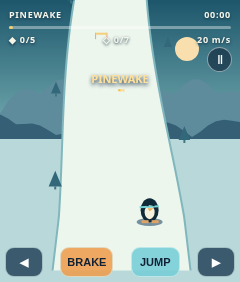
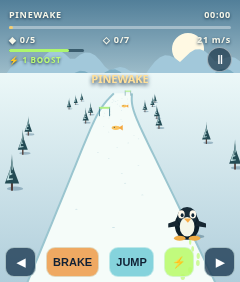
Upgrade Snowline Sprint alpine chase racing and boost

diff --git a/game.js b/game.js
@@ -1,6 +1,7 @@
+import {renderScene} from './renderer.js';
 import {COURSES,center,width,newRun,step,jump,grade,score,clamp} from './engine.js';
 const $=id=>document.getElementById(id),canvas=$('scene'),ctx=canvas.getContext('2d');
-let state='menu',selected=0,unlocked=0,run=null,last=0,tilt=0,tiltBase=null,tiltLive=false,tiltAt=0,noticeUntil=0,keys=new Set(),touch={left:false,right:false,brake:false},audio=null;
+let boostQueued=false;let state='menu',selected=0,unlocked=0,run=null,last=0,tilt=0,tiltBase=null,tiltLive=false,tiltAt=0,noticeUntil=0,keys=new Set(),touch={left:false,right:false,brake:false},audio=null;
 try{unlocked=clamp(Number(localStorage.getItem('snowline-unlocked'))||0,0,2)}catch{}
 function sound(type){try{audio ||= new (window.AudioContext||window.webkitAudioContext)();const o=audio.createOscillator(),g=audio.createGain(),t=audio.currentTime;o.type=type==='hit'?'sawtooth':'sine';o.frequency.setValueAtTime(type==='fish'?580:type==='hit'?130:380,t);o.frequency.exponentialRampToValueAtTime(type==='fish'?900:type==='hit'?75:510,t+.13);g.gain.setValueAtTime(.0001,t);g.gain.exponentialRampToValueAtTime(.085,t+.014);g.gain.exponentialRampToValueAtTime(.0001,t+.16);o.connect(g).connect(audio.destination);o.start(t);o.stop(t+.17)}catch{}}
 function announce(s){$('notice').textContent=s;noticeUntil=performance.now()+1100}
@@ -12,29 +13,15 @@ window.addEventListener('deviceorientation',e=>{if(typeof e.gamma!=='number')ret
 function finish(){state='results';$('hud').hidden=true;$('controls').hidden=true;$('pause').hidden=true;$('panel').hidden=false;const win=grade(run);if(win&&selected===unlocked&&unlocked<2){unlocked++;try{localStorage.setItem('snowline-unlocked',String(unlocked))}catch{}}picker();$('panel').querySelector('h1').innerHTML=win?'SUMMIT<br><em>CLEARED</em>':'RUN<br><em>COMPLETE</em>';$('description').textContent=`${COURSES[selected].name} · ${Math.ceil(run.elapsed)}s · ${run.fish} fish · ${run.gates}/${run.course.gateCount} gates · ${run.hits} hits. Score ${score(run)}. ${win?'Next course unlocked.':'Medal: collect target fish, clear 65% of gates, beat par, and take fewer than four hits.'}`;$('primary').innerHTML='RACE AGAIN <span>↗</span>';$('menuButton').hidden=false;sound(win?'fish':'hit')}
 $('menuButton').onclick=()=>menu();$('primary').onclick=()=>{if(state==='paused'){state='racing';$('panel').hidden=true;last=performance.now();return}start()};$('pause').onclick=()=>{if(state!=='racing')return;state='paused';$('panel').hidden=false;$('panel').querySelector('h1').innerHTML='TAKE A<br><em>BREATH</em>';$('description').textContent='The mountain waits. Tilt to steer, or use the arrows. Hold brake on tight turns.';$('primary').innerHTML='RESUME <span>↗</span>';$('menuButton').hidden=false};
 for(const id of ['left','right','brake']){const b=$(id);b.onpointerdown=e=>{e.preventDefault();b.setPointerCapture(e.pointerId);touch[id]=true};b.onpointerup=b.onpointercancel=()=>touch[id]=false}
+$('boost').onpointerdown=e=>{e.preventDefault();if(state==='racing')boostQueued=true};
 $('jump').onpointerdown=e=>{e.preventDefault();if(state==='racing')jump(run)};
-window.addEventListener('keydown',e=>{if(['ArrowLeft','ArrowRight','ArrowDown','Space'].includes(e.code))e.preventDefault();keys.add(e.code);if(e.code==='Space'&&state==='racing'&&!e.repeat)jump(run);if(e.code==='Escape'&&state==='racing')$('pause').click()});window.addEventListener('keyup',e=>keys.delete(e.code));
-function polygon(points,fill){ctx.fillStyle=fill;ctx.beginPath();ctx.moveTo(...points[0]);for(let i=1;i<points.length;i++)ctx.lineTo(...points[i]);ctx.closePath();ctx.fill()}
-function mountain(t,color,base,amp){ctx.fillStyle=color;ctx.beginPath();ctx.moveTo(0,140);for(let x=0;x<=240;x+=8)ctx.lineTo(x,base-Math.abs(Math.sin(x*.023+t))*amp-Math.abs(Math.sin(x*.071+t))*amp*.44);ctx.lineTo(240,140);ctx.fill()}
-function project(z,x){const d=z-(run?.z||0),y=193-d*1.55,scale=1+Math.max(0,d)*.005;return {x:120+(x-center(z,run?.course||COURSES[selected]))*104/scale,y,scale}}
-function drawFish(x,y,s){ctx.save();ctx.translate(x,y);ctx.scale(s,s);ctx.fillStyle='#ffd778';ctx.beginPath();ctx.ellipse(0,0,4,2.3,0,0,7);ctx.fill();polygon([[3,0],[7,-3],[7,3]],'#ffd778');ctx.fillStyle='#264156';ctx.fillRect(-2,-1,1,1);ctx.restore()}
-function drawPenguin(x,y,air=0){ctx.save();ctx.translate(x,y-air*7);ctx.fillStyle='#102a39';ctx.beginPath();ctx.ellipse(0,3,9,12,0,0,7);ctx.fill();ctx.fillStyle='#f5f1dd';ctx.beginPath();ctx.ellipse(0,5,5,7,0,0,7);ctx.fill();ctx.fillStyle='#e9ad57';polygon([[-2,1],[4,1],[0,4]],'#edac50');ctx.fillStyle='#77d4d6';polygon([[-10,-1],[9,-2],[9,0],[-10,1]],'#77d4d6');ctx.fillStyle='#112b36';ctx.fillRect(-3,-3,2,2);ctx.fillRect(3,-3,2,2);ctx.fillStyle='#dfa368';ctx.fillRect(-8,13,7,3);ctx.fillRect(2,13,7,3);ctx.restore()}
-function render(){const c=run?.course||COURSES[selected],z=run?.z||0;let sky=ctx.createLinearGradient(0,0,0,180);if(c.theme==='dusk'){sky.addColorStop(0,'#351e45');sky.addColorStop(1,'#d7816a')}else{sky.addColorStop(0,c.theme==='ice'?'#194463':'#1d566b');sky.addColorStop(1,'#91c9c8')}ctx.fillStyle=sky;ctx.fillRect(0,0,240,282);ctx.fillStyle='#f8dfad';ctx.beginPath();ctx.arc(187,49,12,0,7);ctx.fill();mountain(.2,'#5e8c9d',122,30);mountain(1.9,'#345f75',139,18);
- ctx.fillStyle=c.theme==='dusk'?'#d2aabd':'#b9d8d9';ctx.fillRect(0,139,240,143);
- // The visible road is a curved continuous strip in world space, with perspective widening near the rider.
- const left=[],right=[];for(let d=125;d>=-50;d-=5){const zz=Math.max(0,z+d),y=193-d*1.55,w=width(zz,c)*.5,shift=(center(zz,c)-center(z,c))*104;const perspective=80+Math.max(0,125-d)*.4;left.push([120+shift-w*perspective,y]);right.push([120+shift+w*perspective,y]);}
- polygon([...left,...right.reverse()],c.theme==='dusk'?'#f4e8e0':'#edf6ed');ctx.strokeStyle='#80b7bd';ctx.lineWidth=2;for(const side of [-1,1]){ctx.beginPath();for(let d=125;d>=-50;d-=5){const zz=Math.max(0,z+d),y=193-d*1.55,x=120+(center(zz,c)-center(z,c))*104+side*width(zz,c)*.5*(80+Math.max(0,125-d)*.4);if(d===125)ctx.moveTo(x,y);else ctx.lineTo(x,y)}ctx.stroke()}
- // Deterministic little pines and shadows, drawn procedurally.
- for(let i=0;i<28;i++){const zz=Math.floor(z/30)*30+i*30+20,d=zz-z;if(d<0||d>126)continue;const side=i%2?1:-1,p=project(zz,center(zz,c)+side*(width(zz,c)*.55+.13+(i*7%5)*.045)),h=clamp(16-d*.065,5,16);polygon([[p.x,p.y-h],[p.x-h*.42,p.y],[p.x+h*.42,p.y]],c.theme==='dusk'?'#40546a':'#326879');ctx.fillStyle='#407481';ctx.fillRect(p.x-1,p.y,2,3)}
- if(run){for(const o of run.objects){const d=o.z-z;if(d<0||d>115)continue;const p=project(o.z,o.x),s=clamp(1-d*.006,.35,1);if(o.type==='fish')drawFish(p.x,p.y-5*s,s);else if(o.type==='gate'){const w=14*s;ctx.strokeStyle='#e9925b';ctx.lineWidth=2*s;ctx.beginPath();ctx.moveTo(p.x-w,p.y);ctx.lineTo(p.x-w,p.y-16*s);ctx.moveTo(p.x+w,p.y);ctx.lineTo(p.x+w,p.y-16*s);ctx.stroke();polygon([[p.x-w,p.y-16*s],[p.x+w,p.y-16*s],[p.x+w,p.y-11*s],[p.x-w,p.y-11*s]],'#f5cf7c')}else if(o.type==='rock'){polygon([[p.x-7*s,p.y],[p.x-4*s,p.y-7*s],[p.x+3*s,p.y-9*s],[p.x+8*s,p.y]],'#677d8c')}else{polygon([[p.x-10*s,p.y],[p.x+9*s,p.y],[p.x+4*s,p.y-5*s],[p.x-6*s,p.y-5*s]],'#e8a362')}}
- const dx=(run.x-center(z,c))*95;ctx.fillStyle='#284d6899';ctx.beginPath();ctx.ellipse(120+dx,222,13,4,0,0,7);ctx.fill();drawPenguin(120+dx,208,run.air);$('timer').textContent=`${Math.floor(run.elapsed/60).toString().padStart(2,'0')}:${Math.floor(run.elapsed%60).toString().padStart(2,'0')}`;$('fishHud').textContent=`◆ ${run.fish}/${c.target}`;$('gateHud').textContent=`◇ ${run.gates}/${c.gateCount}`;$('speedHud').textContent=`${Math.round(run.speed)} m/s`;$('progress').style.width=`${run.z/c.length*100}%`; $('courseHud').textContent=c.name.toUpperCase()}
- else drawPenguin(120,205,0);
-}
+window.addEventListener('keydown',e=>{if(['ArrowLeft','ArrowRight','ArrowDown','Space'].includes(e.code))e.preventDefault();keys.add(e.code);if((e.code==='ArrowUp'||e.code==='KeyW')&&state==='racing'&&!e.repeat)boostQueued=true;if(e.code==='Space'&&state==='racing'&&!e.repeat)jump(run);if(e.code==='Escape'&&state==='racing')$('pause').click()});window.addEventListener('keyup',e=>keys.delete(e.code));
+function render(){const c=run?.course||COURSES[selected];renderScene(ctx,run,c,performance.now());if(run){$('timer').textContent=`${Math.floor(run.elapsed/60).toString().padStart(2,'0')}:${Math.floor(run.elapsed%60).toString().padStart(2,'0')}`;$('fishHud').textContent=`◆ ${run.fish}/${c.target}`;$('gateHud').textContent=`◇ ${run.gates}/${c.gateCount}`;$('speedHud').textContent=`${Math.round(run.speed)} m/s`;$('progress').style.width=`${run.z/c.length*100}%`;$('staminaFill').style.width=`${run.stamina}%`;$('boostHud').textContent=`⚡ ${run.boostCharges} BOOST${run.boostCharges===1?'':'S'}`;$('courseHud').textContent=c.name.toUpperCase()}}
 function frame(t){const dt=Math.min(.05,(t-last)/1000||0);last=t;if(state==='racing'){
  const steer=(touch.right||keys.has('ArrowRight')||keys.has('KeyD')?1:0)-(touch.left||keys.has('ArrowLeft')||keys.has('KeyA')?1:0);
  // Touch/keyboard takes priority while pressed; sensor tilt takes over otherwise.
- step(run,dt,{steer:steer||((tiltLive&&t-tiltAt<1000&&Math.abs(tilt)>.08)?tilt:0),brake:touch.brake||keys.has('ArrowDown')||keys.has('KeyS')});
- for(const e of run.events){if(e==='fish'||e==='gate'||e==='hit'||e==='ramp'){announce({fish:'FISH +85',gate:'CLEAN GATE +160',hit:'ROCK! SLOW DOWN',ramp:'AIRBORNE'}[e]);sound(e)}}if(run.finished)finish();}
+ step(run,dt,{steer:steer||((tiltLive&&t-tiltAt<1000&&Math.abs(tilt)>.08)?tilt:0),brake:touch.brake||keys.has('ArrowDown')||keys.has('KeyS'),boost:boostQueued});boostQueued=false;
+ for(const e of run.events){if(e==='fish'||e==='gate'||e==='hit'||e==='ramp'){announce({fish:'FISH +85',gate:'CLEAN GATE +160',hit:'ROCK! SLOW DOWN',ramp:'AIRBORNE',boost:'BOOST!',charge:'BOOST +1'}[e]);sound(e)}}if(run.finished)finish();}
  if(t>noticeUntil)$('notice').textContent='';render();requestAnimationFrame(frame)}
 picker();requestAnimationFrame(frame);
 window.__snowline={get state(){return state},get run(){return run},get unlocked(){return unlocked},start,step:(dt,input)=>{if(state==='racing'){step(run,dt,input);if(run.finished)finish()}},jump:()=>jump(run)};

diff --git a/renderer.js b/renderer.js
@@ -1,0 +1,20 @@
+import {center,width,clamp} from './engine.js';
+const poly=(g,points,fill)=>{g.fillStyle=fill;g.beginPath();g.moveTo(...points[0]);for(let i=1;i<points.length;i++)g.lineTo(...points[i]);g.closePath();g.fill()};
+const ellipse=(g,x,y,rx,ry,color)=>{g.fillStyle=color;g.beginPath();g.ellipse(x,y,Math.max(.2,rx),Math.max(.2,ry),0,0,7);g.fill()};
+const rng=n=>{let v=Math.sin(n*127.1+45.6)*43758.5453;return v-Math.floor(v)};
+function pine(g,x,y,s,night){if(s<.25)return;g.save();g.translate(x,y);g.scale(s,s);ellipse(g,3,1,8,2,'#426b8766');g.fillStyle='#513f3b';g.fillRect(-1,-12,2,15);for(let i=0;i<3;i++){let a=7-i*4;poly(g,[[-a,-4-i*5],[0,-23-i*5],[a,-4-i*5]],night?'#173449':'#244c55');poly(g,[[-a*.76,-7-i*5],[0,-23-i*5],[a*.15,-8-i*5]],night?'#66818b':'#c1e1e3')}g.restore()}
+function penguin(g,x,y,air,lean,scale=1){g.save();g.translate(x,y-air*7);g.rotate(lean*.16);g.scale(scale,scale);ellipse(g,4,18+air*7,17,3,'#19435855');ellipse(g,0,6,15,18,'#0b1e29');ellipse(g,0,-4,12,12,'#182c38');poly(g,[[-12,0],[-23,4],[-23,9],[-10,7]],'#152631');poly(g,[[12,0],[23,4],[23,9],[10,7]],'#152631');ellipse(g,0,8,9,12,'#f5f7e9');ellipse(g,-7,-7,4,5,'#fff9eb');ellipse(g,7,-7,4,5,'#fff9eb');ellipse(g,-6,-6,1.8,2.5,'#112838');ellipse(g,7,-6,1.8,2.5,'#112838');poly(g,[[-4,-2],[5,-2],[1,3]],'#f7ac48');ellipse(g,-9,22,7,3,'#f0ad46');ellipse(g,9,22,7,3,'#f0ad46');g.restore()}
+function drawObject(g,o,x,y,s,night){g.save();g.translate(x,y);g.scale(s,s);if(o.type==='fish'){ellipse(g,0,-8,8,4,'#fbc35f');poly(g,[[5,-8],[13,-13],[13,-3]],'#f5a942');ellipse(g,-3,-9,1,1,'#173d44')}else if(o.type==='boost'){ellipse(g,0,-9,11,11,'#b5f65666');ellipse(g,0,-9,8,8,'#adf768');poly(g,[[2,-16],[-4,-8],[0,-8],[-3,-1],[6,-11],[1,-11]],'#1c4450')}else if(o.type==='gate'){g.strokeStyle=night?'#a7f2dc':'#2c6e81';g.lineWidth=2;for(const a of [-13,13]){g.beginPath();g.moveTo(a,0);g.lineTo(a,-25);g.stroke();ellipse(g,a,-25,2,2,'#d8fff6')}poly(g,[[-13,-24],[13,-24],[13,-19],[-13,-19]],'#b0ef81')}else if(o.type==='rock'){poly(g,[[-10,0],[-6,-9],[1,-14],[7,-10],[12,0]],'#547187');poly(g,[[-6,-9],[1,-14],[4,-10],[-2,-7]],'#effaff')}else{poly(g,[[-13,0],[13,0],[8,-5],[-9,-5]],'#d98c5f');g.fillStyle='#ffe9d2';g.fillRect(-8,-5,15,1)}g.restore()}
+export function renderScene(g,run,course,t){const c=course,z=run?.z||0,night=c.theme==='dusk',ice=c.theme==='ice',sky=g.createLinearGradient(0,0,0,240);sky.addColorStop(0,night?'#13233e':ice?'#467d9d':'#527f99');sky.addColorStop(.55,night?'#d47b7f':'#d8edf0');sky.addColorStop(1,'#d5e5ed');g.fillStyle=sky;g.fillRect(0,0,240,282);
+ ellipse(g,188,49,night?12:16,night?12:16,night?'#fff3d5':'#fff9e3');
+ for(let layer=0;layer<3;layer++){let pts=[[0,145]];for(let x=0;x<=250;x+=5){let crest=(layer===0?83:layer===1?102:123)-Math.abs(Math.sin(x*.024+layer*2.3))*22-Math.abs(Math.sin(x*.087+layer))*12;pts.push([x,crest])}pts.push([240,145]);poly(g,pts,night?['#62637e','#555d79','#6b7185'][layer]:['#a2c8da','#7eafc4','#6d9aad'][layer])}
+ const h=73,ground=g.createLinearGradient(0,h,0,282);ground.addColorStop(0,night?'#ddc5d5':'#ecf8f8');ground.addColorStop(1,night?'#c4b6c8':'#b0cedb');g.fillStyle=ground;g.fillRect(0,h,240,282-h);
+ // Chase camera tracks the winding centerline; a sampled width and vanishing point convey slope depth.
+ const point=(d,x)=>{let zz=Math.max(0,z+d),q=1/(1+d*.029),bend=(center(zz,c)-center(z,c))*155*q;return {x:120+bend+(x-center(zz,c))*165*q,y:72+170*q,q}};
+ const l=[],r=[];for(let d=240;d>=-12;d-=4){let zz=Math.max(0,z+d),w=width(zz,c)*.5,p=point(d,center(zz,c)-w);l.push([p.x,p.y]);p=point(d,center(zz,c)+w);r.push([p.x,p.y])}poly(g,[...l,...r.reverse()],night?'#e9dce2':'#f5fcf9');
+ for(let side of [-1,1]){g.beginPath();for(let d=240;d>=-12;d-=4){let zz=Math.max(0,z+d),p=point(d,center(zz,c)+side*width(zz,c)*.5);if(d===240)g.moveTo(p.x,p.y);else g.lineTo(p.x,p.y)}g.strokeStyle=night?'#a989a5':'#9ac5cf';g.lineWidth=2;g.stroke()}
+ // Terrain ribbon texture and offset groves preserve depth without WebGL or downloaded assets.
+ for(let n=0;n<50;n++){let zz=Math.floor(z/11)*11+n*11,d=zz-z;if(d<0||d>245)continue;let q=1/(1+d*.029),side=n%2?1:-1,xx=center(zz,c)+side*(width(zz,c)*.5+.11+rng(n*3+c.seed)*.9),p=point(d,xx);pine(g,p.x,p.y,clamp(1.5*q,.16,1.2),night)}
+ for(let n=0;n<75;n++){let zz=Math.floor(z/5)*5+n*5,d=zz-z;if(d<0||d>190)continue;let p=point(d,center(zz,c)+(rng(n*17+c.seed)-.5)*width(zz,c)*.8);ellipse(g,p.x,p.y,Math.max(.5,p.q*1.7),Math.max(.3,p.q*.6),night?'#b8b6ce77':'#a2c7d376')}
+ if(run){for(const o of run.objects){let d=o.z-z;if(d<0||d>235)continue;let p=point(d,o.x);drawObject(g,o,p.x,p.y,clamp(p.q*1.5,.2,1.4),night)}let rider=point(-8,run.x);if(run.boost>0){for(let i=0;i<7;i++){let x=rider.x+(rng(i*13+t*.002)-.5)*32,y=235+i*7;ellipse(g,x,y,1+i*.2,3,'#b8f86baa')}}penguin(g,rider.x,222,run.air,run.steer,.82)}else penguin(g,120,217,0,0,.85);
+}

diff --git a/engine.js b/engine.js
@@ -11,6 +11,7 @@ export function makeObjects(c){
   for(let i=0;i<c.gateCount;i++){
     const z=115+i*(c.length-210)/(c.gateCount-1), x=center(z,c)+(i%2 ? .27 : -.27);
     objects.push({type:'gate',z,x,id:`g${i}`});
+    if(i===2||i===c.gateCount-3)objects.push({type:'boost',z:z+12,x:center(z+12,c),id:`boost${i}`});
     objects.push({type:'fish',z:z+27,x:center(z+27,c)+(i%2 ? -.20:.20),id:`f${i}`});
     if(i>0)objects.push({type:i%3===0?'ramp':'rock',z:z+53,x:center(z+53,c)+(i%2 ? -.16:.16),id:`h${i}`});
   }
@@ -19,7 +20,7 @@ export function makeObjects(c){
 }
 export function newRun(courseIndex=0){
   const c=COURSES[courseIndex];if(!c)throw Error('Unknown course');
-  return {courseIndex,course:c,objects:makeObjects(c),seen:new Set(),x:center(0,c),z:0,speed:14,elapsed:0,fish:0,gates:0,missed:0,hits:0,jumps:0,air:0,vy:0,stun:0,invuln:0,brake:false,steer:0,finished:false,events:[]};
+  return {courseIndex,course:c,objects:makeObjects(c),seen:new Set(),x:center(0,c),z:0,speed:14,elapsed:0,fish:0,gates:0,missed:0,hits:0,jumps:0,air:0,vy:0,stun:0,invuln:0,stamina:100,boost:0,boostCharges:2,boostCooldown:0,brake:false,steer:0,finished:false,events:[]};
 }
 export function jump(s){if(s.finished||s.air>0||s.stun>0)return false;s.vy=3.5;s.air=.01;s.jumps++;s.events.push('jump');return true;}
 export function grade(s){return s.fish>=s.course.target && s.gates>=Math.ceil(s.course.gateCount*.65) && s.elapsed<=s.course.time && s.hits<4;}
@@ -27,8 +28,8 @@ export function score(s){return Math.max(0,Math.round(s.gates*160+s.fish*85+Math
 export function step(s,dt,input={}){
   if(s.finished)return s;
   dt=clamp(dt,0,.05);s.events=[];s.elapsed+=dt;s.steer=clamp(input.steer||0,-1,1);s.brake=!!input.brake;
-  s.stun=Math.max(0,s.stun-dt);s.invuln=Math.max(0,s.invuln-dt);
-  const target=s.brake?9:27+Math.min(5,s.z/300);s.speed+=(target-s.speed)*Math.min(1,dt*(s.stun?1.5:.65));
+  s.boostCooldown=Math.max(0,s.boostCooldown-dt);if(input.boost&&s.boostCharges>0&&s.boostCooldown===0&&s.stamina>=20){s.boostCharges--;s.stamina-=20;s.boost=.9;s.boostCooldown=2.5;s.events.push('boost');}s.boost=Math.max(0,s.boost-dt);s.stamina=clamp(s.stamina+(s.brake?4:1.5)*dt,0,100);s.stun=Math.max(0,s.stun-dt);s.invuln=Math.max(0,s.invuln-dt);
+  const target=s.brake?9:s.boost>0?44:27+Math.min(5,s.z/300);s.speed+=(target-s.speed)*Math.min(1,dt*(s.stun?1.5:.65));
   const old=s.z;s.z=Math.min(s.course.length,s.z+s.speed*dt);
   s.x+=s.steer*(s.stun?.12:.66)*dt;const edge=width(s.z,s.course)*.5;
   if(Math.abs(s.x-center(s.z,s.course))>edge){s.speed=Math.min(s.speed,15);s.x=clamp(s.x,center(s.z,s.course)-edge-.1,center(s.z,s.course)+edge+.1);}
@@ -36,9 +37,10 @@ export function step(s,dt,input={}){
   for(const o of s.objects){if(o.z<=old||o.z>s.z||s.seen.has(o.id))continue;s.seen.add(o.id);
     const dx=Math.abs(s.x-o.x);
     if(o.type==='gate'){if(dx<.19){s.gates++;s.events.push('gate');}else{s.missed++;s.events.push('miss');}}
-    if(o.type==='fish'&&dx<.16){s.fish++;s.events.push('fish');}
+    if(o.type==='fish'&&dx<.16){s.fish++;s.stamina=clamp(s.stamina+12,0,100);s.events.push('fish');}
+    if(o.type==='boost'&&dx<.16){s.boostCharges=Math.min(3,s.boostCharges+1);s.events.push('charge');}
     if(o.type==='ramp'&&dx<.16&&s.air===0){s.vy=4.5;s.air=.01;s.jumps++;s.events.push('ramp');}
-    if(o.type==='rock'&&dx<.16&&s.air<.13&&s.invuln<=0){s.hits++;s.stun=.8;s.invuln=1.3;s.speed*=.46;s.events.push('hit');}
+    if(o.type==='rock'&&dx<.16&&s.air<.13&&s.invuln<=0){s.hits++;s.stamina=Math.max(0,s.stamina-18);s.stun=.8;s.invuln=1.3;s.speed*=.46;s.events.push('hit');}
   }
   if(s.z>=s.course.length){s.finished=true;s.events.push('finish');}
   return s;

diff --git a/index.html b/index.html
@@ -1,1 +1,1 @@
-<!doctype html><html lang="en"><head><meta charset="utf-8"><meta name="viewport" content="width=device-width,initial-scale=1,maximum-scale=1,user-scalable=no,viewport-fit=cover"><meta name="theme-color" content="#101e34"><title>Snowline Sprint</title><link rel="stylesheet" href="style.css"></head><body><main id="shell" aria-label="Snowline Sprint game"><canvas id="scene" width="240" height="282" aria-label="Downhill game course"></canvas><div class="hud" id="hud" hidden><div class="hud-top"><span id="courseHud">PINEWAKE</span><span id="timer">00:00</span></div><div class="meter"><div id="progress"></div></div><div class="hud-bottom"><span id="fishHud">◆ 0/5</span><span id="gateHud">◇ 0/7</span><span id="speedHud">14 m/s</span></div></div><div id="notice" aria-live="polite"></div><div class="controls" id="controls" hidden><button id="left" aria-label="Steer left">◀</button><button id="brake" aria-label="Hold to brake">BRAKE</button><button id="jump" aria-label="Jump">JUMP</button><button id="right" aria-label="Steer right">▶</button></div><button id="pause" class="pause" aria-label="Pause race" hidden>Ⅱ</button><section class="panel" id="panel"><div class="eyebrow">AN ORIGINAL MOUNTAIN ARCADE</div><h1>SNOWLINE<br><em>SPRINT</em></h1><p id="description">Three alpine descents. Thread the gates, gather fish, and outrun the clock.</p><div class="course-picker" id="picker"></div><button class="primary" id="primary">START DESCENT <span>↗</span></button><button class="secondary" id="menuButton" hidden>COURSE MENU</button><p class="tip" id="tip">Tilt to steer · touch arrows if tilt is unavailable<br>Brake to carve · tap JUMP over rocks</p></section></main><script type="module" src="game.js"></script></body></html>
+<!doctype html><html lang="en"><head><meta charset="utf-8"><meta name="viewport" content="width=device-width,initial-scale=1,maximum-scale=1,user-scalable=no,viewport-fit=cover"><meta name="theme-color" content="#101e34"><title>Snowline Sprint</title><link rel="stylesheet" href="style.css"></head><body><main id="shell" aria-label="Snowline Sprint game"><canvas id="scene" width="240" height="282" aria-label="Downhill game course"></canvas><div class="hud" id="hud" hidden><div class="hud-top"><span id="courseHud">PINEWAKE</span><span id="timer">00:00</span></div><div class="meter"><div id="progress"></div></div><div class="hud-bottom"><span id="fishHud">◆ 0/5</span><span id="gateHud">◇ 0/7</span><span id="speedHud">14 m/s</span></div><div class="stamina"><div id="staminaFill"></div></div><div id="boostHud">⚡ 2 BOOSTS</div></div><div id="notice" aria-live="polite"></div><div class="controls" id="controls" hidden><button id="left" aria-label="Steer left">◀</button><button id="brake" aria-label="Hold to brake">BRAKE</button><button id="jump" aria-label="Jump">JUMP</button><button id="boost" aria-label="Boost">⚡</button><button id="right" aria-label="Steer right">▶</button></div><button id="pause" class="pause" aria-label="Pause race" hidden>Ⅱ</button><section class="panel" id="panel"><div class="eyebrow">AN ORIGINAL MOUNTAIN ARCADE</div><h1>SNOWLINE<br><em>SPRINT</em></h1><p id="description">Three alpine descents. Thread the gates, gather fish, and outrun the clock.</p><div class="course-picker" id="picker"></div><button class="primary" id="primary">START DESCENT <span>↗</span></button><button class="secondary" id="menuButton" hidden>COURSE MENU</button><p class="tip" id="tip">Tilt to steer · touch arrows if tilt is unavailable<br>Brake to carve · jump rocks · boost on straights</p></section></main><script type="module" src="game.js"></script></body></html>

diff --git a/style.css b/style.css
@@ -1,2 +1,4 @@
 *{box-sizing:border-box}html,body{margin:0;width:100%;height:100%;overflow:hidden;background:#081523;color:#f5f6e9;font-family:system-ui,-apple-system,sans-serif;touch-action:none}#shell{position:absolute;width:240px;height:282px;left:50%;top:50%;transform:translate(-50%,-50%);overflow:hidden;background:#173c53}canvas{display:block;width:240px;height:282px}.hud{position:absolute;inset:0 0 auto;pointer-events:none;padding:8px 9px 0;text-shadow:0 1px 3px #143047;font-size:9px;font-weight:800;letter-spacing:.08em}.hud-top,.hud-bottom{display:flex;justify-content:space-between;align-items:center}.hud-bottom{margin-top:4px}.meter{height:3px;background:#ffffff60;border-radius:8px;margin-top:5px}.meter>div{height:100%;width:0;background:#f3ce70;border-radius:8px}.pause{position:absolute;right:8px;top:47px;background:#132d41ad;color:white;border:1px solid #ffffff80;border-radius:50%;width:25px;height:25px;font-size:13px}.controls{position:absolute;bottom:5px;left:5px;right:5px;display:flex;gap:4px;justify-content:space-between;align-items:end}.controls button{height:30px;min-width:38px;border:1px solid #d9f3f0a8;border-radius:9px;background:#102e48bd;color:white;font-size:11px;font-weight:900;touch-action:none}.controls #brake{background:#ed9b49db;color:#102134;min-width:53px}.controls #jump{background:#73ccd6dc;color:#102134;min-width:49px}#notice{position:absolute;top:71px;left:10px;right:10px;text-align:center;font-size:11px;font-weight:900;color:#ffe09a;text-shadow:0 2px 4px #142d42;pointer-events:none}.panel{position:absolute;inset:0;background:linear-gradient(180deg,#112d43d6,#0b2435f2 57%,#08192af8);padding:21px 16px 13px;display:flex;flex-direction:column;align-items:stretch}.eyebrow{font-size:8px;color:#eecb79;font-weight:900;letter-spacing:.17em}.panel h1{font-size:29px;line-height:.93;letter-spacing:-.055em;margin:10px 0 8px;font-weight:950}.panel h1 em{font-style:normal;color:#89d7db}.panel p{font-size:10px;line-height:1.42;color:#c9d9db;margin:0 0 8px}.course-picker{display:flex;gap:4px;margin:1px 0 8px}.course-picker button{flex:1;min-width:0;border:1px solid #6596a4;background:#153950;color:#e9f3ee;border-radius:6px;padding:5px 1px;font-size:8px;font-weight:800}.course-picker button.active{background:#eecb79;color:#152b37;border-color:#eecb79}.course-picker button:disabled{opacity:.37}.primary{width:100%;padding:8px 9px;background:#f2ce7e;color:#132939;border:0;border-radius:7px;font-size:11px;font-weight:950;letter-spacing:.07em;text-align:left;display:flex;justify-content:space-between}.panel .tip{font-size:8px;color:#a8c4ca;margin:7px 0 0}button:focus-visible{outline:2px solid white} [hidden]{display:none!important}
 .secondary{margin-top:5px;padding:6px;color:#cce6e4;border:1px solid #83b2b9;border-radius:6px;background:#15354a;font-size:9px;font-weight:850}
+
+.stamina{height:3px;background:#17394aaf;border-radius:4px;margin-top:3px;width:75px}.stamina div{height:100%;background:#adf66e;border-radius:4px;width:100%}#boostHud{font-size:8px;color:#bdfc76;margin-top:2px}.controls #boost{background:#b9fb6be0;color:#102b35;min-width:30px}.controls #left,.controls #right{min-width:31px}.controls #brake{min-width:47px}.controls #jump{min-width:41px}.panel{background:linear-gradient(180deg,#0a2032b0,#092338eb 54%,#081a2af8)}

diff --git a/tests/engine.test.js b/tests/engine.test.js
@@ -4,3 +4,5 @@ test('braking slows and steering displaces',()=>{const a=newRun(),b=newRun();for
 test('jump blocks repeat airborne and lands',()=>{const s=newRun();assert.equal(jump(s),true);assert.equal(jump(s),false);for(let i=0;i<45;i++)step(s,.05,{});assert.equal(s.air,0);assert.equal(jump(s),true)});
 test('fish gate collision and rock penalties register once',()=>{const s=newRun();for(const type of ['gate','fish','rock']){const o=s.objects.find(x=>x.type===type);s.z=o.z-.1;s.x=o.x;s.speed=20;step(s,.05,{});const before=[s.fish,s.gates,s.hits];step(s,.05,{});assert.deepEqual([s.fish,s.gates,s.hits],before)}assert.equal(s.fish,1);assert.equal(s.gates,1);assert.equal(s.hits,1)});
 test('campaign completion and score requirements',()=>{const s=newRun();s.z=s.course.length-.2;s.gates=5;s.fish=5;s.elapsed=40;step(s,.05,{});assert.equal(s.finished,true);assert.equal(grade(s),true);assert.ok(score(s)>0);s.hits=4;assert.equal(grade(s),false)});
+test('boost consumes charge and stamina, increases speed, and respects cooldown',()=>{const s=newRun();step(s,.05,{boost:true});assert.equal(s.boostCharges,1);assert.ok(s.stamina<100);const charge=s.boostCharges;step(s,.05,{boost:true});assert.equal(s.boostCharges,charge);const baseline=newRun();for(let i=0;i<10;i++){step(s,.05,{});step(baseline,.05,{})}assert.ok(s.speed>baseline.speed);});
+test('boost pickup restores a charge, fish replenishes stamina',()=>{const s=newRun();s.boostCharges=0;s.stamina=40;for(const type of ['boost','fish']){const o=s.objects.find(x=>x.type===type);s.z=o.z-.1;s.x=o.x;s.speed=20;step(s,.05,{})}assert.equal(s.boostCharges,1);assert.ok(s.stamina>40)});

diff --git a/README.md b/README.md
@@ -1,6 +1,6 @@
 # Snowline Sprint
 
-An original, self-contained, portrait-first downhill arcade game designed for a 240 × 282 Rabbit R1 browser viewport. No build or network dependency. Run `python3 -m http.server 8000` in this directory and open `http://localhost:8000/`. The public release and installation QR are linked below.
+An original, self-contained, portrait-first downhill arcade game inspired by the visual character and mechanics of [Tux Racer · Alpine](https://tux-racer-alpine-reborn.geekthegreybeard.chatgpt.site/) designed for a 240 × 282 Rabbit R1 browser viewport. No build or network dependency. Run `python3 -m http.server 8000` in this directory and open `http://localhost:8000/`. The public release and installation QR are linked below.
 
 ## Actual 240 × 282 browser screenshots
 
@@ -18,20 +18,24 @@ Captured from the running game in headless Chromium, not concept art. The result
 
 ## Mechanics and campaign
 
-Three sequentially unlocked courses—Pinewake, Glasswind, Emberfall—have progressively longer, more winding slopes and more gates. Follow the curved snow track; pass through offset slalom gates, pick up fish, jump or dodge rocks, and ride short ramps. The edge slows the penguin. A medal and next-course unlock require target fish, at least 65% of gates, a finish under par, and fewer than four hits. All finishes show fish, gates, hits, time, score and medal state. Score = 160 per gate + 85 per fish + 12 per second under par − 100 per hit − 45 per missed gate. Replay via Race Again; use Course Menu from pause/results to select an unlocked course. Pause/resume in a run. Unlocks persist locally if browser storage permits.
+Three sequentially unlocked courses—Pinewake, Glasswind, Emberfall—have progressively longer, more winding slopes and more gates. Follow the curved snow track; pass through offset slalom gates, pick up fish, jump or dodge rocks, and ride short ramps. The edge slows the penguin. A sampled chase-camera snow ribbon, layered mountain walls, offset pine groves, depth-scaled pickups, and a round flippered penguin bring the reference’s alpine valley and rider silhouette into the small display. Two starting boost charges can be spent on straights; green lightning pickups replenish up to three charges. Boost costs 20 stamina, lasts 0.9 seconds and has a 2.5-second cooldown. Fish restore 12 stamina, rocks cost 18, and stamina slowly recovers. A medal and next-course unlock require target fish, at least 65% of gates, a finish under par, and fewer than four hits. All finishes show fish, gates, hits, time, score and medal state. Score = 160 per gate + 85 per fish + 12 per second under par − 100 per hit − 45 per missed gate. Replay via Race Again; use Course Menu from pause/results to select an unlocked course. Pause/resume in a run. Unlocks persist locally if browser storage permits.
 
 ## Controls
 
-Tilt left/right to steer. Tilt zero is calibrated to the first sensor reading after starting a race; start another run to recalibrate. Stale motion readings expire after one second. The large left/right touch buttons always work and override tilt while held, including on devices without sensors. Hold BRAKE to slow to 9 m/s; tap JUMP to clear rocks. Keyboard: left/right or A/D, down or S to brake, Space to jump, Escape to pause. Audio consists of short synthesized cues and starts only after user interaction.
+Tilt left/right to steer. Tilt zero is calibrated to the first sensor reading after starting a race; start another run to recalibrate. Stale motion readings expire after one second. The large left/right touch buttons always work and override tilt while held, including on devices without sensors. Hold BRAKE to slow to 9 m/s; tap JUMP to clear rocks; tap ⚡ to boost. Keyboard: left/right or A/D, down or S to brake, Space to jump, Up or W to boost, Escape to pause. Audio consists of short synthesized cues and starts only after user interaction.
+
+## Reference comparison and remaining compromises
+
+The supplied live PC reference was inspected in menu and race views, and its local project examined. Its broad open downhill valley, modeled flippered penguin, pine-lined mountains, fish, obstacles, ramps, stamina and boost charge are now recognizable here through original procedural 2D drawing and compact mechanics. Unlike the first R1 release’s flat vertical strip and tiny penguin, the updated screenshot shows a receding chase-camera course and a larger rider. The PC version additionally has six expansive 3D mountains, day/night selection, caves and underwater forks, bobsled routes, shields, health, difficulty settings, CPU/split/online opponents, leaderboard, and a richer audio/lighting system. Those are **not** claimed here: this version has three fixed compact courses, dusk on the final course, solo local progression, small synthesized cues and no borrowed PC assets. On-device R1 sensor mapping, audio and sustained frame rate remain untested.
 
 ## Limits
 
-At 240 × 282, the touch controls overlay the bottom of the course; this is an arcade perspective rather than physically simulated 3D terrain. Orientation permission depends on browser policy; touch remains available. Browser localStorage can be disabled, in which case course unlocks last only for the session. Actual R1 sensor orientation, touch ergonomics and frame rate require on-device acceptance testing. This is a single-player offline game, not network racing.
+At 240 × 282, the touch controls overlay the bottom of the course; this is a CPU-friendly 2D canvas chase projection, not the reference’s WebGL 3D terrain. Orientation permission depends on browser policy; touch remains available. Browser localStorage can be disabled, in which case course unlocks last only for the session. Actual R1 sensor orientation, touch ergonomics and frame rate require on-device acceptance testing. This is a single-player offline game, not network racing.
 
 ## Tests
 
-Run `npm test` (Node 18+). Tests cover procedural layouts, steering/braking, jump cooldown, collision single-counting, finish and medal logic. Run `npm run test:browser` after `npm install` and `npx playwright install chromium`. Headless Chromium was tested at exactly 240 × 282: menu, start, touch steering, jump, pause/resume, finish/results, and zero page errors. The test writes `screenshot-menu.png`, `screenshot-gameplay.png`, and `screenshot-results.png` in this directory. The result finish is fast-forwarded to exercise the screen; this does not establish human-play balance or R1 hardware compatibility.
+Run `npm test` (Node 18+). Tests cover procedural layouts, steering/braking, jump cooldown, boost consumption/cooldown and pickups, collision single-counting, finish and medal logic. Run `npm run test:browser` after `npm install` and `npx playwright install chromium`. Headless Chromium was tested at exactly 240 × 282: menu, start, touch steering, jump, boost, pause/resume, finish/results, and zero page errors. The test writes `screenshot-menu.png`, `screenshot-gameplay.png`, and `screenshot-results.png` in this directory. The result finish is fast-forwarded to exercise the screen; this does not establish human-play balance or R1 hardware compatibility.
 
 ## Credits
 
-Original implementation and procedural geometry, scenery, character rendering, UI and Web Audio cues created for this project. The prior Alpine Reborn project was inspected for high-level downhill mechanics only; no artwork, source code, media or music was copied. Inspired by the downhill penguin arcade genre, not an official Tux Racer product. No third-party assets.
+Original implementation and procedural geometry, scenery, character rendering, UI and Web Audio cues created for this project. The supplied live Alpine Reborn site and local PC source were inspected for high-level mechanics and visual direction; no artwork, source code, media or music was copied. Inspired by the downhill penguin arcade genre, not an official Tux Racer product. No third-party assets.
